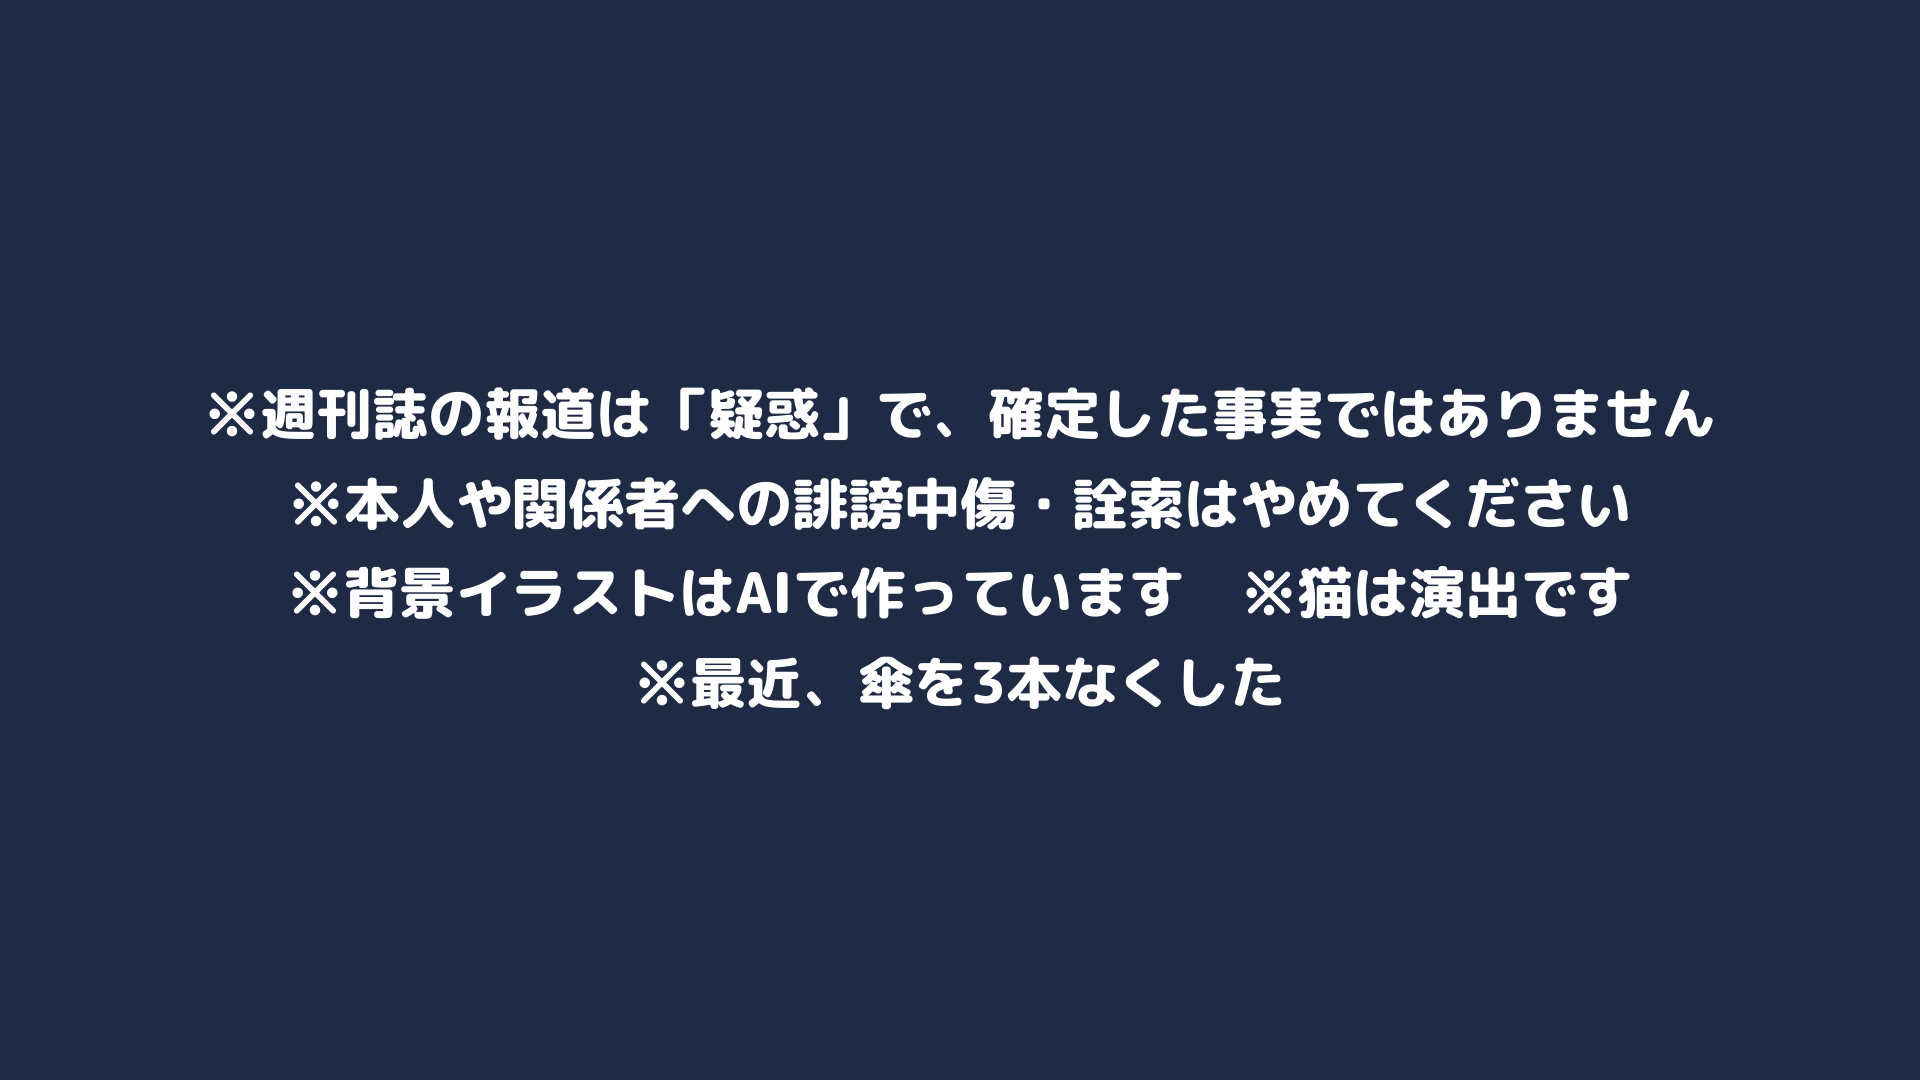
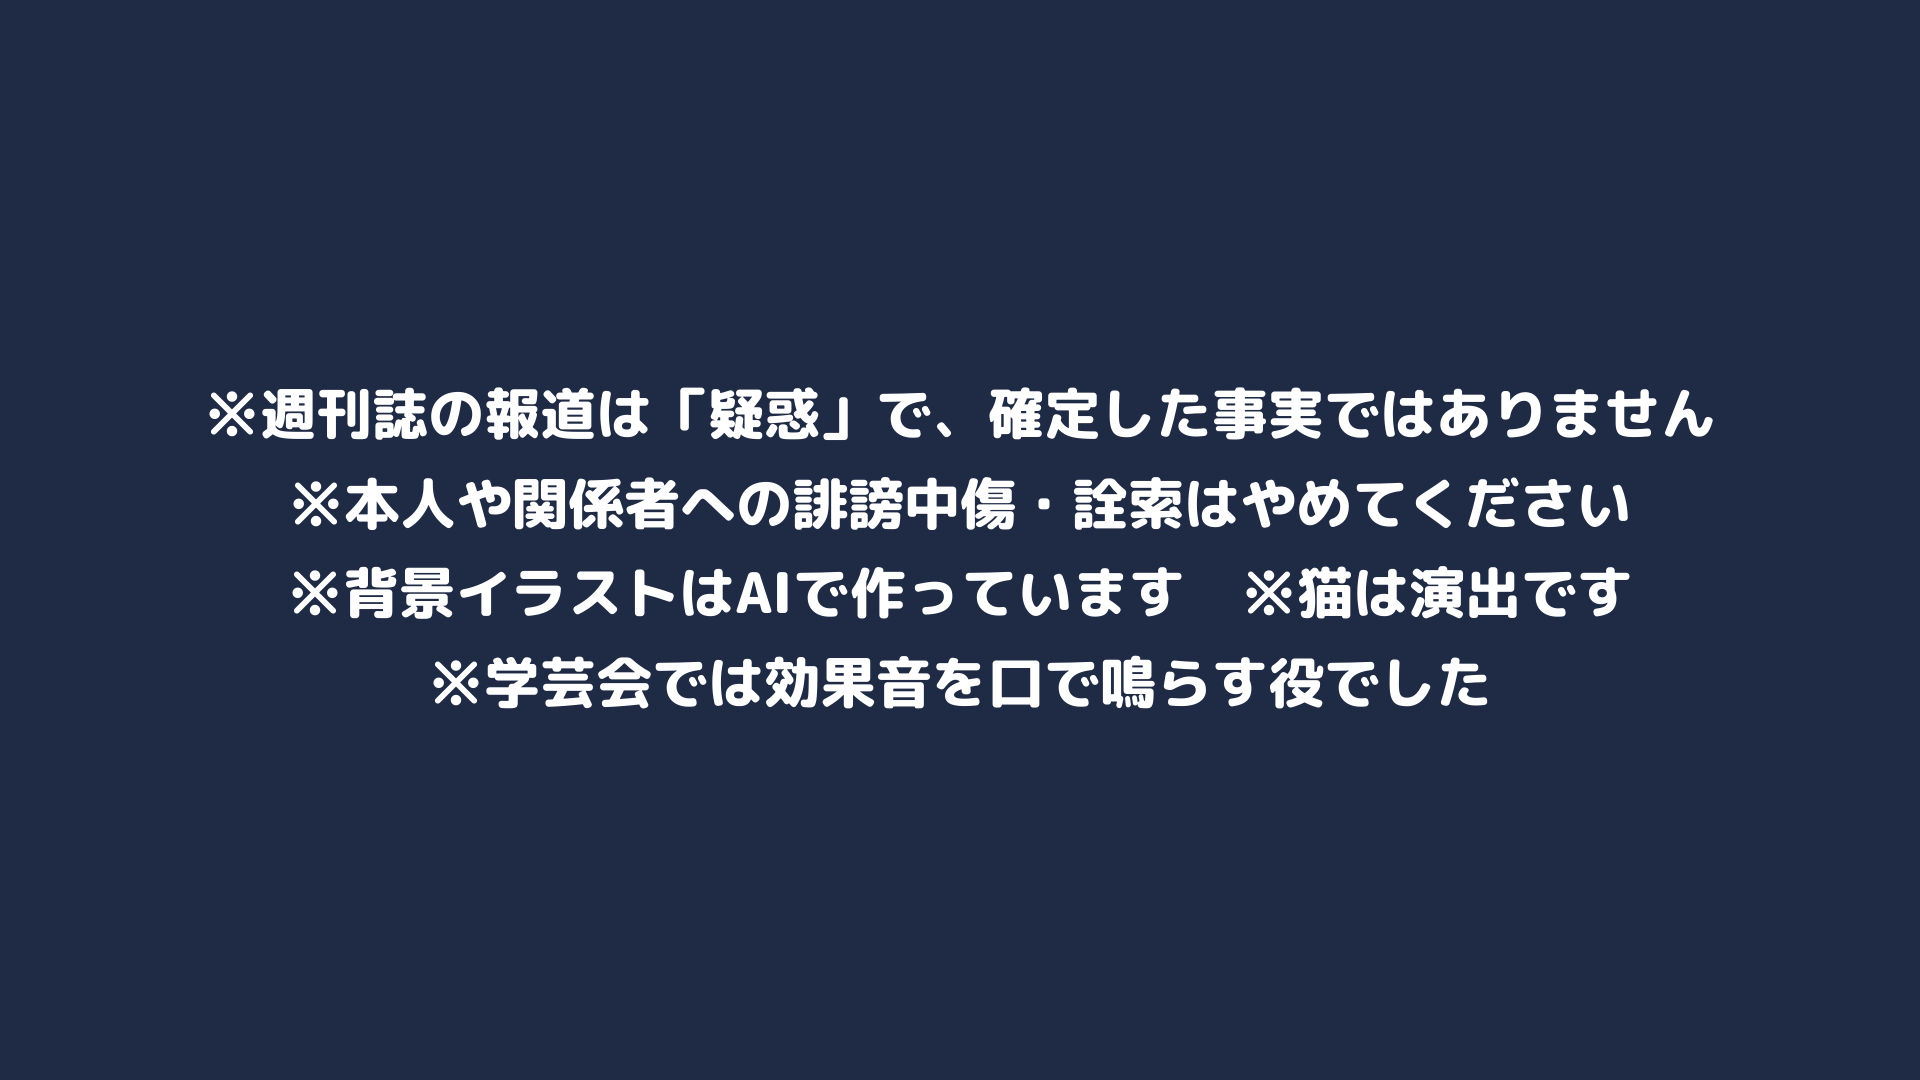
17_imamori fixes (one-liner, restart page, clearer lines); show only the speaking cat in dialogue
Claude-Session: https://claude.ai/code/session_011g9CsrfFD5YswfNSvNDW39

Changed region(s): [[0.2188, 0.6111, 0.7812, 0.6722]]

diff --git a/catmeme/cuts_17_imamori.py b/catmeme/cuts_17_imamori.py
@@ -57,8 +57,8 @@ V_PHONE_W, V_HANDS, V_HAND, V_NIGHT, V_SHIBUYA, V_TYPE, V_SLEEP = (
 
 
 def two(b, sub, **kw):
-    return dict(bg=bg(b), cats=[cat("@react", "ニュース猫", 500, h=700), cat("@calm", "博識な猫", 1430, h=700)], say=sub,
-                text_top=True, **kw)
+    """説明の場面。しゃべっている博識な猫だけを出す（10/15 ユーザー指定）。"""
+    return ss(sub, b, **kw)
 
 
 def org(b, who, sub, **kw):
@@ -88,6 +88,7 @@ def cuts_all():
         nn("元戦隊ヒロインが\nYouTubeで再出発……\nわずか6日で発信休止！？", HERO, se=["jan", "explosion_chudoon"], bgm={"file": AM223, "gain": -4}),
         ss("2025年\n『ナンバーワン戦隊ゴジュウジャー』の\nヒロインだった今森茉耶さん", HERO, se="doon_movie"),
         ss("週刊誌の不倫疑惑\nそして20歳未満の飲酒で\n番組を降板", HERO, se="pi"),
+        ss("それでも\n活動を再開し\n再出発！", STUDIO, se="pikon"),
         ss("2026年10月8日\nYouTubeに初投稿\n10月14日　すべての発信を休止と表明", V_HANDS, se="pi"),
         nn("降板から\n約1年での再出発\nだったのに……", V_HANDS, se="shock_piano"),
         dict(bg=bg(TL), card=pt("e01_title"), dur=3.8, se="jan",
@@ -167,9 +168,9 @@ def cuts_all():
         card("e07_youtube", "10月8日にYouTubeへ初投稿（本人の動画・報道）", b=STUDIO),
         card("e07_youtube", "約4か月ラウンジで働いたと説明　パパ活の疑いは否定", b=LOUNGE, se="card_place"),
         ss("芸能界には\n戻らない考えを\n示したと報じられた", STUDIO, se="pi"),
-        ss("Instagramでは\n降板のころのことには\n今後触れられないと説明していた（報道）", V_PHONE_W, se="kon"),
+        ss("降板のころのことは\n“これからも話せない”と\nInstagramで説明していた（報道）", V_PHONE_W, se="kon"),
         ss("事務所に入らず\n個人で発信できるのが\nYouTubeの場所", STUDIO, se="pikon"),
-        ss("2026年3月の\n20歳の誕生日のころにも\nSNSの投稿が賛否を呼んでいた（報道）", V_PHONE_W, se="pi"),
+        ss("2026年3月　20歳の誕生日に\nSNSで写真を公開すると\n“反省して”という声も集まった（報道）", V_PHONE_W, se="pi"),
         ss("別のYouTuberの動画では\nいじめや不登校の過去も\n話したと報じられた", STUDIO, se="kon"),
         nn("一からの\n再スタート……", STUDIO, se="idea_newtype_01"),
         ss("ただ　ネットで\n“交際相手”などの\nうわさも出たけど", V_HANDS, se="kon"),

diff --git a/catmeme/cuts_04_leak.py b/catmeme/cuts_04_leak.py
@@ -57,11 +57,24 @@ def cat(a, role, x, h=640, bottom=1010, **kw):
     return dict(a=a, x=x, h=h, bottom=bottom, label=role, label_color=ROLE[role], label_size=kw.pop("label_size", 66), **kw)
 
 
-def duo(b, left, right, say, who="L", **kw):
-    """2匹並べての掛け合い。left/right = (素材, 役名)。who はしゃべる側（L/R）。しゃべっていない方の猫の音は消す。"""
-    cats = [cat(left[0], left[1], 500, h=760, bottom=1040, flip=kw.pop("lflip", False), mute=who != "L"),
-            cat(right[0], right[1], 1430, h=760, bottom=1040, flip=kw.pop("rflip", False), mute=who != "R")]
+def duo(b, left, right, say, who="L", both=None, **kw):
+    """掛け合い。left/right = (素材, 役名)。who はしゃべる側（L/R）。
+    10/15 ユーザー指定：しゃべっている猫だけを出す（対話感を出すため）。2匹並ぶのが自然な場面だけ both=True。
+    （昔の動画を作り直すときは DUO_BOTH=True で前と同じ2匹並び）"""
+    both = DUO_BOTH if both is None else both
+    lf, rf = kw.pop("lflip", False), kw.pop("rflip", False)
+    if not both:
+        if who == "L":
+            cats = [cat(left[0], left[1], 560, h=800, bottom=1040, flip=lf)]
+        else:
+            cats = [cat(right[0], right[1], 1360, h=800, bottom=1040, flip=rf)]
+        return dict(bg=bg(b), cats=cats, say=say, text_top=True, **kw)
+    cats = [cat(left[0], left[1], 500, h=760, bottom=1040, flip=lf, mute=who != "L"),
+            cat(right[0], right[1], 1430, h=760, bottom=1040, flip=rf, mute=who != "R")]
     return dict(bg=bg(b), cats=cats, say=say, text_top=True, **kw)
+
+
+DUO_BOTH = False
 
 
 def solo(b, a, role, say, side="L", **kw):

diff --git a/catmeme/make_parts_17_imamori.py b/catmeme/make_parts_17_imamori.py
@@ -17,7 +17,7 @@ PREV = os.path.join(OUT, "preview")
 ITEMS = {
     "e00_notice": P.message(["※週刊誌の報道は「疑惑」で、確定した事実ではありません", "※本人や関係者への誹謗中傷・詮索はやめてください",
                              "※背景イラストはAIで作っています　※猫は演出です",
-                             "※最近、傘を3本なくした"], opaque=True, size=56),   # 最後の行は今日の一言
+                             "※学芸会では効果音を口で鳴らす役でした"], opaque=True, size=56),   # 最後の行は今日の一言
     "e01_title": P.message(["元戦隊ヒロイン　今森茉耶", "再出発からわずか6日で発信休止"], sub="2026年10月8日 YouTube初投稿 → 10月14日 すべての発信を休止と表明", size=84),
     "e02_profile": table3("今森茉耶ってだれ？", ("", "内容", ""), [
         ("生まれ", "2006年3月26日　宮崎県出身", ""),

diff --git a/catmeme/README.md b/catmeme/README.md
@@ -41,6 +41,7 @@
 - 「→ ○本目もどうぞ」の画面は使わない。代わりに **「チャンネル登録よろしく！」の画面**（`parts/common/subscribe.png`・`make_parts_common.py`）で終わる
 - **「以前の動画で述べた」「○本目で見た」など、過去の動画にふれるセリフ・字幕は一切入れない**（10/13 ユーザー指定）
 - **下の黒い字幕帯（説明モード）に猫素材をかぶせない**。猫は帯の上に収める（役名札は帯にかかってもよい）。`render.EXPLAIN_TOP` より上に自動で置く（10/14 ユーザー指定）
+- **掛け合いの場面は、しゃべっている猫だけを出す**（2匹以上いるのが自然な場面以外は、2匹同時に出さない。対話感を出すため・10/15 ユーザー指定）。`cuts_04_leak.duo` がそうなっている（2匹並べたい時は `both=True`）
 - **主語になる団体（県・税関・警察庁・県警など）が何かをした場面では、その団体を猫素材にして役名札（団体名）つきで登場させる**。その場面には**ニュース猫・博識な猫は出さない**（団体の猫だけ）（10/14 ユーザー指定・例：cuts_13_yard の org()）
 - **ユーザーが渡した写真の背景は、ゆっくり横・縦に動かして動画っぽくする**（10/14 ユーザー指定・`render.pan_mode`）
 - **曲つきの猫素材（CATALOG.md の ⚠）は、同じカットに2つ入れない**（BGMが2つ鳴るため）。`cuts_04_leak.allocate` が自動でよける（10/13 ユーザー指定）

diff --git a/catmeme/scripts/17_imamori.md b/catmeme/scripts/17_imamori.md
@@ -9,7 +9,7 @@
 - LINE画像の関係者は推測しない。画像の個人情報・内容の詳細は出さない（「過去の飲酒の問題に関係するとみられる」まで）
 - 8〜10章は落ち着いた猫だけ（ふざけた動き・叫ぶ猫・爆発の音は使わない）。最後に相談窓口（厚生労働省「まもろうよ こころ」）
 - 本人は猫で演じない。写真も使わない（背景はAIのイラスト）
-- 今日の一言：「※最近、傘を3本なくした」
+- 今日の一言：「※学芸会では効果音を口で鳴らす役でした」（ユーザー指定）
 
 ## 指示書から変えたところ
 - 「東映が出演契約解除と降板を発表」：東映単独の発表は確認できなかったので、事務所とテレビ朝日の発表として出した
